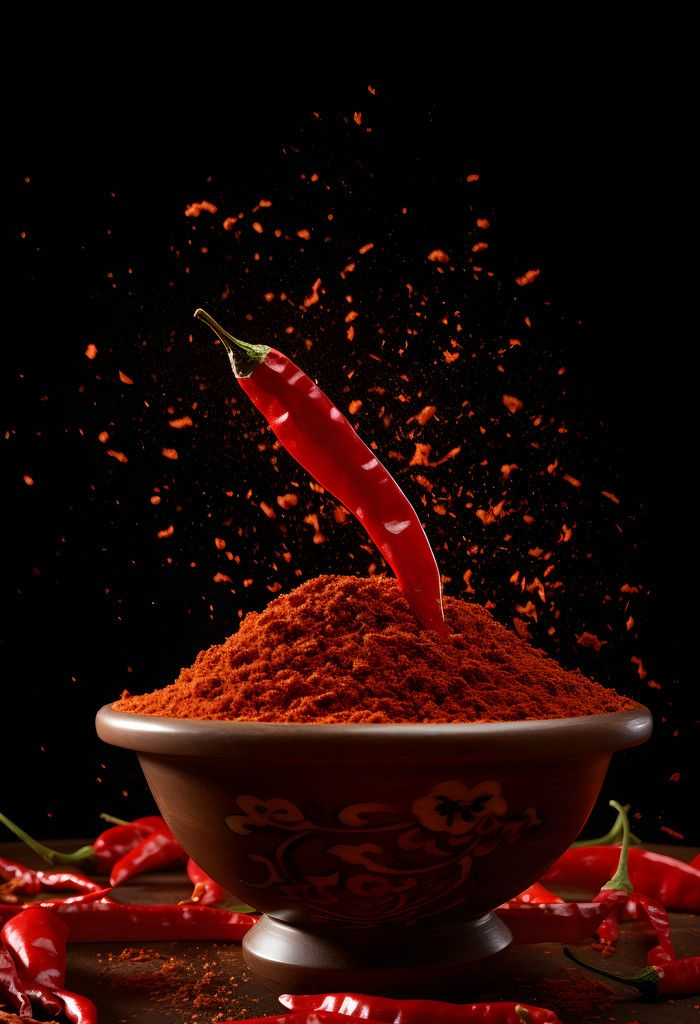
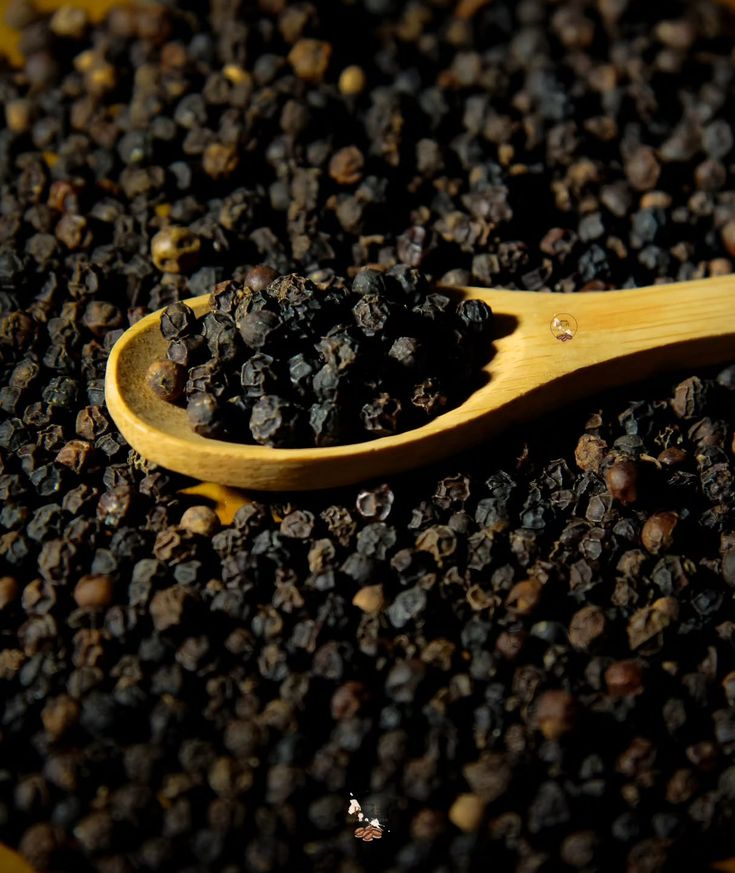
Update products page to use consistent cover images
- Copied all missing cover images from Cover images folder to public
- Updated products page to use cover images for all products:
  - Pulses: cover-pulses.jpg
  - Black Pepper: cover-black-pepper.jpg
  - Cardamom: cover-cardamom.jpg
  - Grains & Millets: cover-grains-millets-new.jpg
  - Jute & Paper Products: cover-jute-paper-products.jpg
  - Tissue: cover-tissue.jpg
- All products now use consistent high-quality cover images

diff --git a/src/app/products/page.tsx b/src/app/products/page.tsx
@@ -39,7 +39,7 @@ const ProductsPage = () => {
     },
     {
       name: 'Red Chilli',
-      image: '/cover-red-chilli.jpg', // Using cover image
+      image: '/cover-red-chilli.jpg',
       description:
         'Premium quality Guntur, Byadgi and Kashmir chillies with ground chilli powder, renowned for vibrant color.',
       features: [
@@ -52,7 +52,7 @@ const ProductsPage = () => {
     },
     {
       name: 'Rice',
-      image: '/cover-rice.jpg', // Using cover image
+      image: '/cover-rice.jpg',
       description:
         'Premium quality rice varieties including Sona Masoori, Basmati, IR64 Parboiled, Ponni, and Jeera Samba.',
       features: [
@@ -65,7 +65,7 @@ const ProductsPage = () => {
     },
     {
       name: 'Turmeric',
-      image: '/cover-turmeric.jpg', // Using cover image
+      image: '/cover-turmeric.jpg',
       description:
         'Premium quality turmeric from Salem, Erode, Lakadong, and Alleppey Finger, known for rich color and high curcumin.',
       features: [
@@ -78,7 +78,7 @@ const ProductsPage = () => {
     },
     {
       name: 'Tamarind',
-      image: '/cover-tamarind.jpg', // Using cover image
+      image: '/cover-tamarind.jpg',
       description:
         'Premium quality tamarind, tamarind seeds, and tamarind kernels, known for tangy flavor and rich nutrition.',
       features: [
@@ -91,7 +91,7 @@ const ProductsPage = () => {
     },
     {
       name: 'Pulses',
-      image: '/istockphoto-1280448548-612x612-1.jpg', // Using uploaded pulses image
+      image: '/cover-pulses.jpg',
       description:
         'Premium pulses including Black Chickpeas, Chickpeas, Pigeon Peas, Black Gram, Green Gram, and Horse Gram.',
       features: [
@@ -104,7 +104,7 @@ const ProductsPage = () => {
     },
     {
       name: 'Areca Plates',
-      image: '/cover-areca-plates.jpg', // Using cover image
+      image: '/cover-areca-plates.jpg',
       description:
         'Premium areca nuts and eco-friendly areca plateware – biodegradable, compostable, and sustainable.',
       features: [
@@ -117,7 +117,7 @@ const ProductsPage = () => {
     },
     {
       name: 'Black Pepper',
-      image: '/Karimunda Black Pepper.jpg', // Using actual black pepper image
+      image: '/cover-black-pepper.jpg',
       description:
         'Premium black pepper varieties including Panniyur series, Karimunda, and traditional types for bold flavor.',
       features: [
@@ -130,7 +130,7 @@ const ProductsPage = () => {
     },
     {
       name: 'Cardamom',
-      image: '/Malabar Cardamom.jpg', // Using actual cardamom image
+      image: '/cover-cardamom.jpg',
       description:
         'Premium Malabar cardamom, Mysore cardamom, and Vazhukkha type for rich aroma and culinary applications.',
       features: [
@@ -143,7 +143,7 @@ const ProductsPage = () => {
     },
     {
       name: 'Grains & Millets',
-      image: '/Finger Millet (Ragi).jpg', // Using actual grains & millets image
+      image: '/cover-grains-millets-new.jpg',
       description:
         'Premium grains and millet varieties including Finger, Pearl, Foxtail, and Little for rich nutrition.',
       features: [
@@ -156,7 +156,7 @@ const ProductsPage = () => {
     },
     {
       name: 'Jute & Paper Products',
-      image: '/Jute Bags.jpg', // Using actual jute products image
+      image: '/cover-jute-paper-products.jpg',
       description:
         'High-quality eco-friendly paper bags, jute products, and sustainable packaging solutions.',
       features: ['Eco-Friendly', 'Sustainable', 'Innovative', 'Cost-Effective'],
@@ -164,7 +164,7 @@ const ProductsPage = () => {
     },
     {
       name: 'Tissue',
-      image: '/Facial Tissue Boxes.jpg', // Using actual tissue image
+      image: '/cover-tissue.jpg',
       description:
         'Premium quality tissues and paper products for personal care, hospitality, and commercial use.',
       features: [
